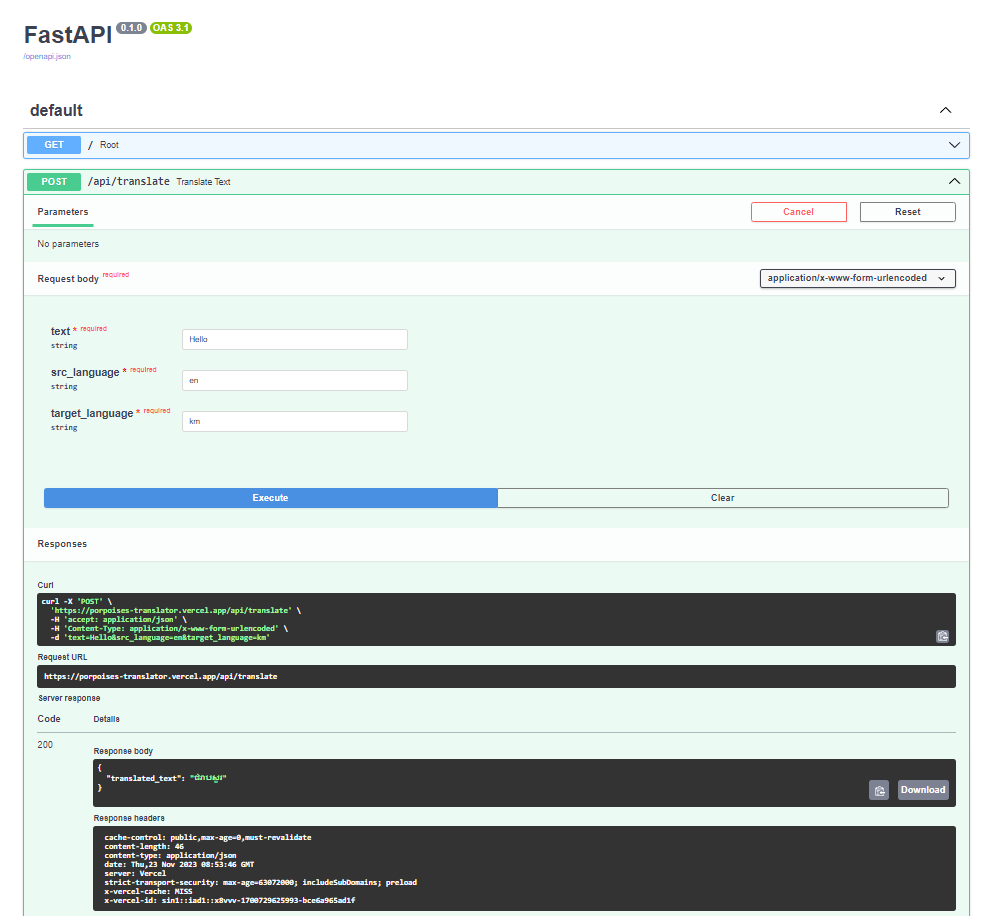
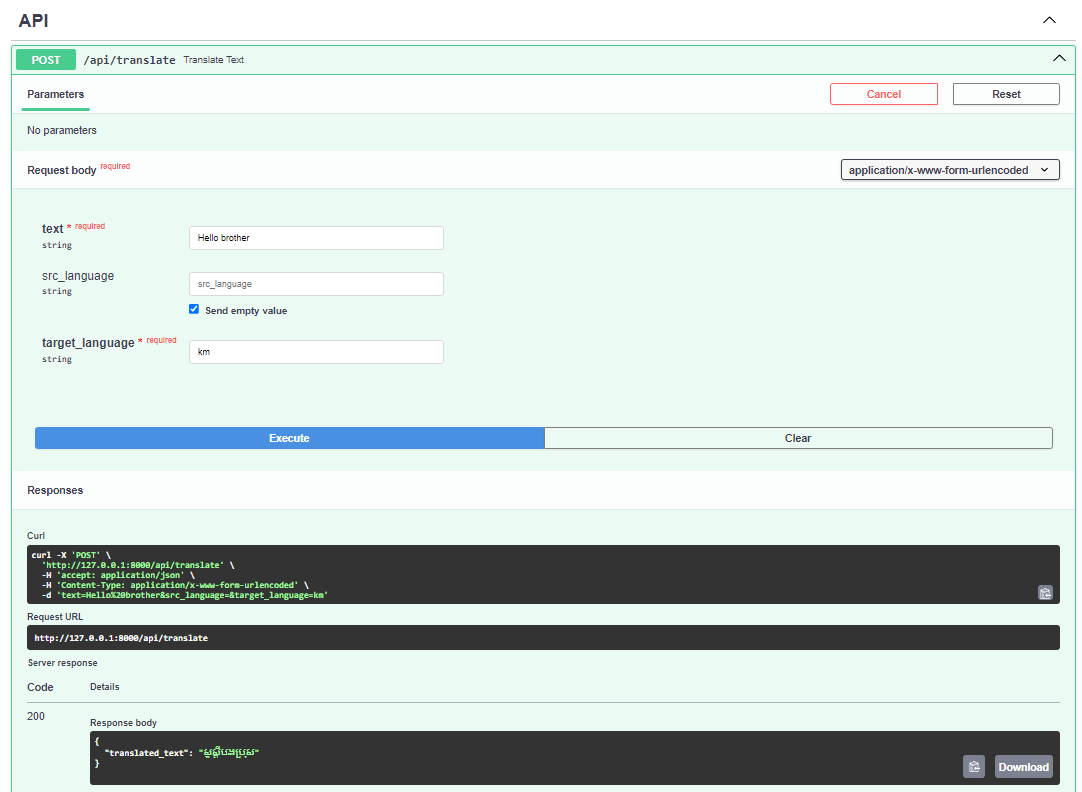
done

diff --git a/main.py b/main.py
@@ -3,28 +3,30 @@ from fastapi.staticfiles import StaticFiles
 from fastapi.templating import Jinja2Templates
 from deep_translator import GoogleTranslator
 
-
 app = FastAPI()
 
 app.mount("/static", StaticFiles(directory="static"), name="static")
 app.mount("/src", StaticFiles(directory="src"), name="src")
 
-
 # Create an instance of Jinja2Templates for rendering HTML templates
-templates = Jinja2Templates(directory="templates") 
+templates = Jinja2Templates(directory="templates")
+
 
 @app.get("/")
 async def root(request: Request):
     return templates.TemplateResponse("index.html", {"request": request})
 
-@app.post('/api/translate')
-def translate_text(text: str = Form(...),src_language:str = Form(...),target_language: str = Form(...)):
-    translator = GoogleTranslator(source=src_language, target=target_language)
+
+@app.post("/api/translate", tags=["API"])
+def translate_text(
+    text: str = Form(...),
+    src_language: str = Form(None),  # Making src_language optional
+    target_language: str = Form(...),
+):
+    if src_language:
+        translator = GoogleTranslator(source=src_language, target=target_language)
+    else:
+        translator = GoogleTranslator(source="auto", target=target_language)
+
     translated_text = translator.translate(text)
     return {"translated_text": translated_text}
-
-# @app.post('/api/translate')
-# def translate_text(text: str = Form(...), target_language: str = Form(...)):
-#     translator = GoogleTranslator(source='auto', target=target_language)
-#     translated_text = translator.translate(text)
-#     return {"translated_text": translated_text}

diff --git a/README.md b/README.md
@@ -1,14 +1,29 @@
 # Porpoises Translator
 
-### About
-> free traslate api using google translate check it out url :.
+## About
 
-### Preview
-[![front end image](/src/front_end.png)](https://porpoises-translator.vercel.app)
+Porpoises Translator is a free translation tool that utilizes the Google Translate API through the `deep_translator` library.
 
-### Swagger UI
+## Usage
 
-[![swagger image](/src/swagger_ui.png)]((https://porpoises-translator.vercel.app/docs))
+To use the Porpoises Translator, you need to provide the following parameters:
 
+- **text:** The content that needs translation.
+- **src_language:** (Optional) The source language to translate from. If not provided, the tool will automatically detect the source language.
+- **target_language:** The target language to translate the text into.
 
+## Preview
 
+<div style="border: 2px solid #ddd; padding: 5px;">
+  <a href="https://porpoises-translator.vercel.app">
+    <img src="/src/front_end.png" alt="Front End Image" style="width:100%;">
+  </a>
+</div>
+
+## Swagger UI
+
+<div style="border: 1px solid #ddd; padding: 5px;">
+  <a href="https://porpoises-translator.vercel.app/docs">
+    <img src="/src/swagger_ui.png" alt="Front End Image" style="width:100%;">
+  </a>
+</div>
